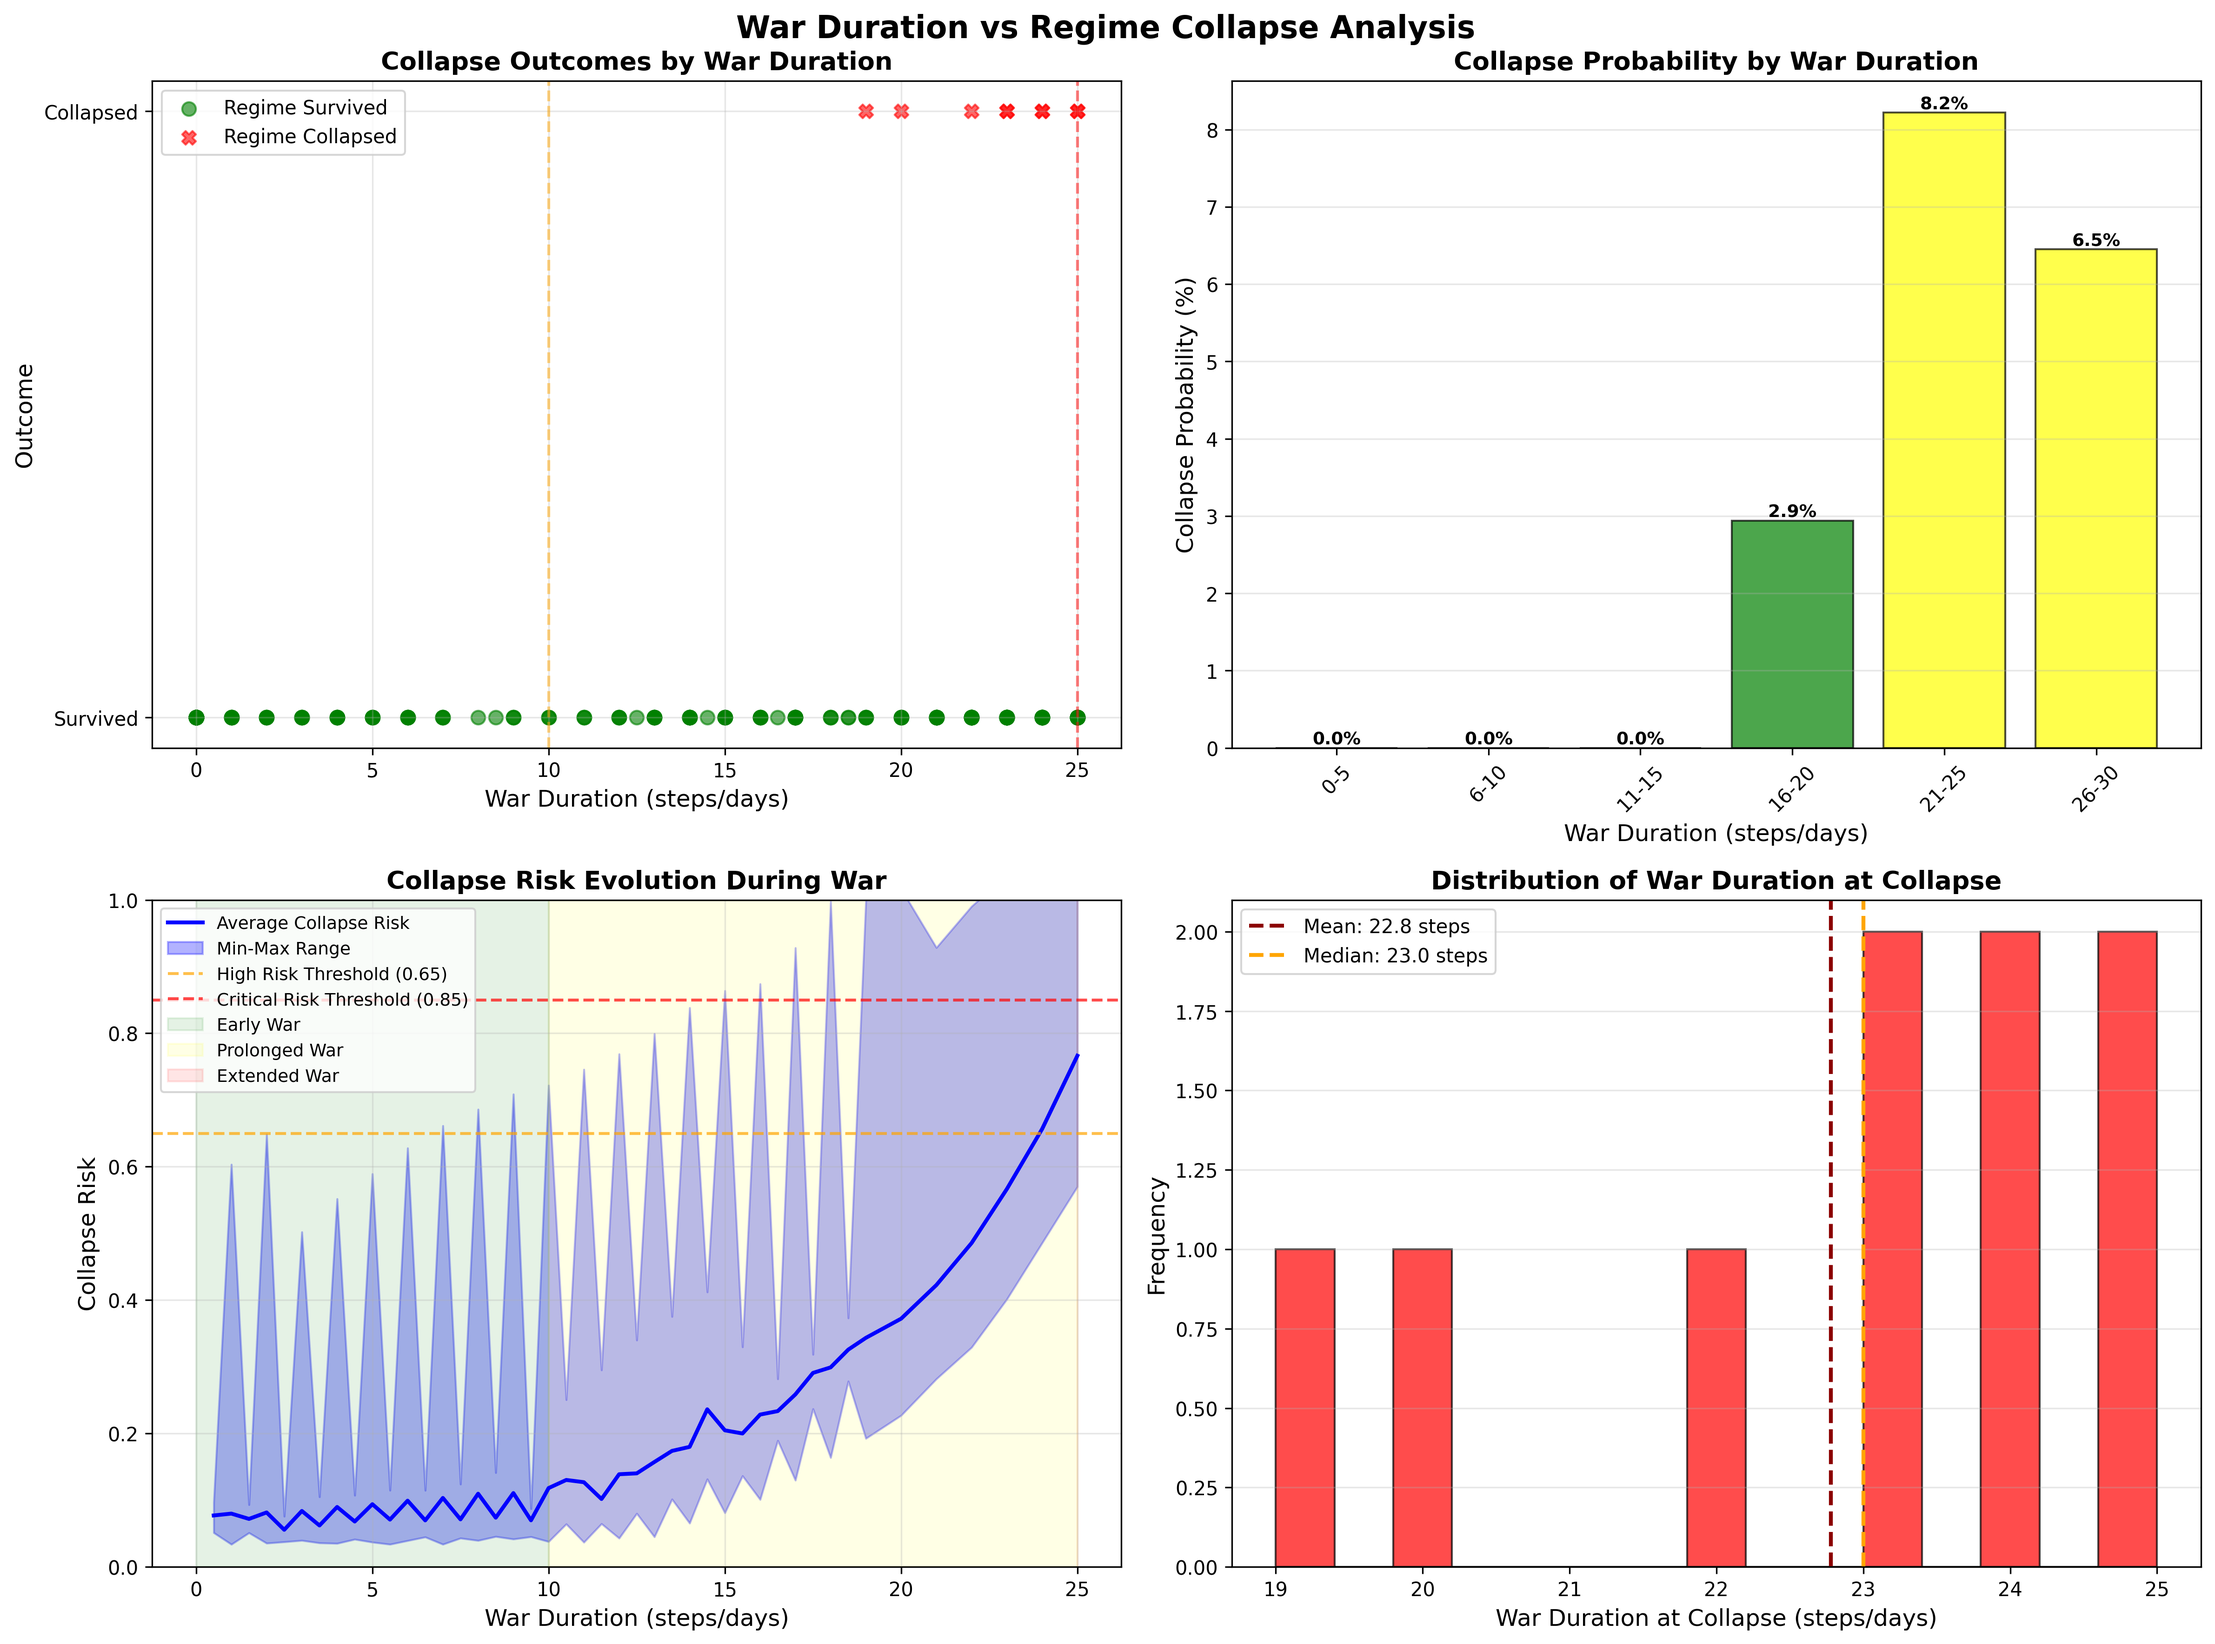
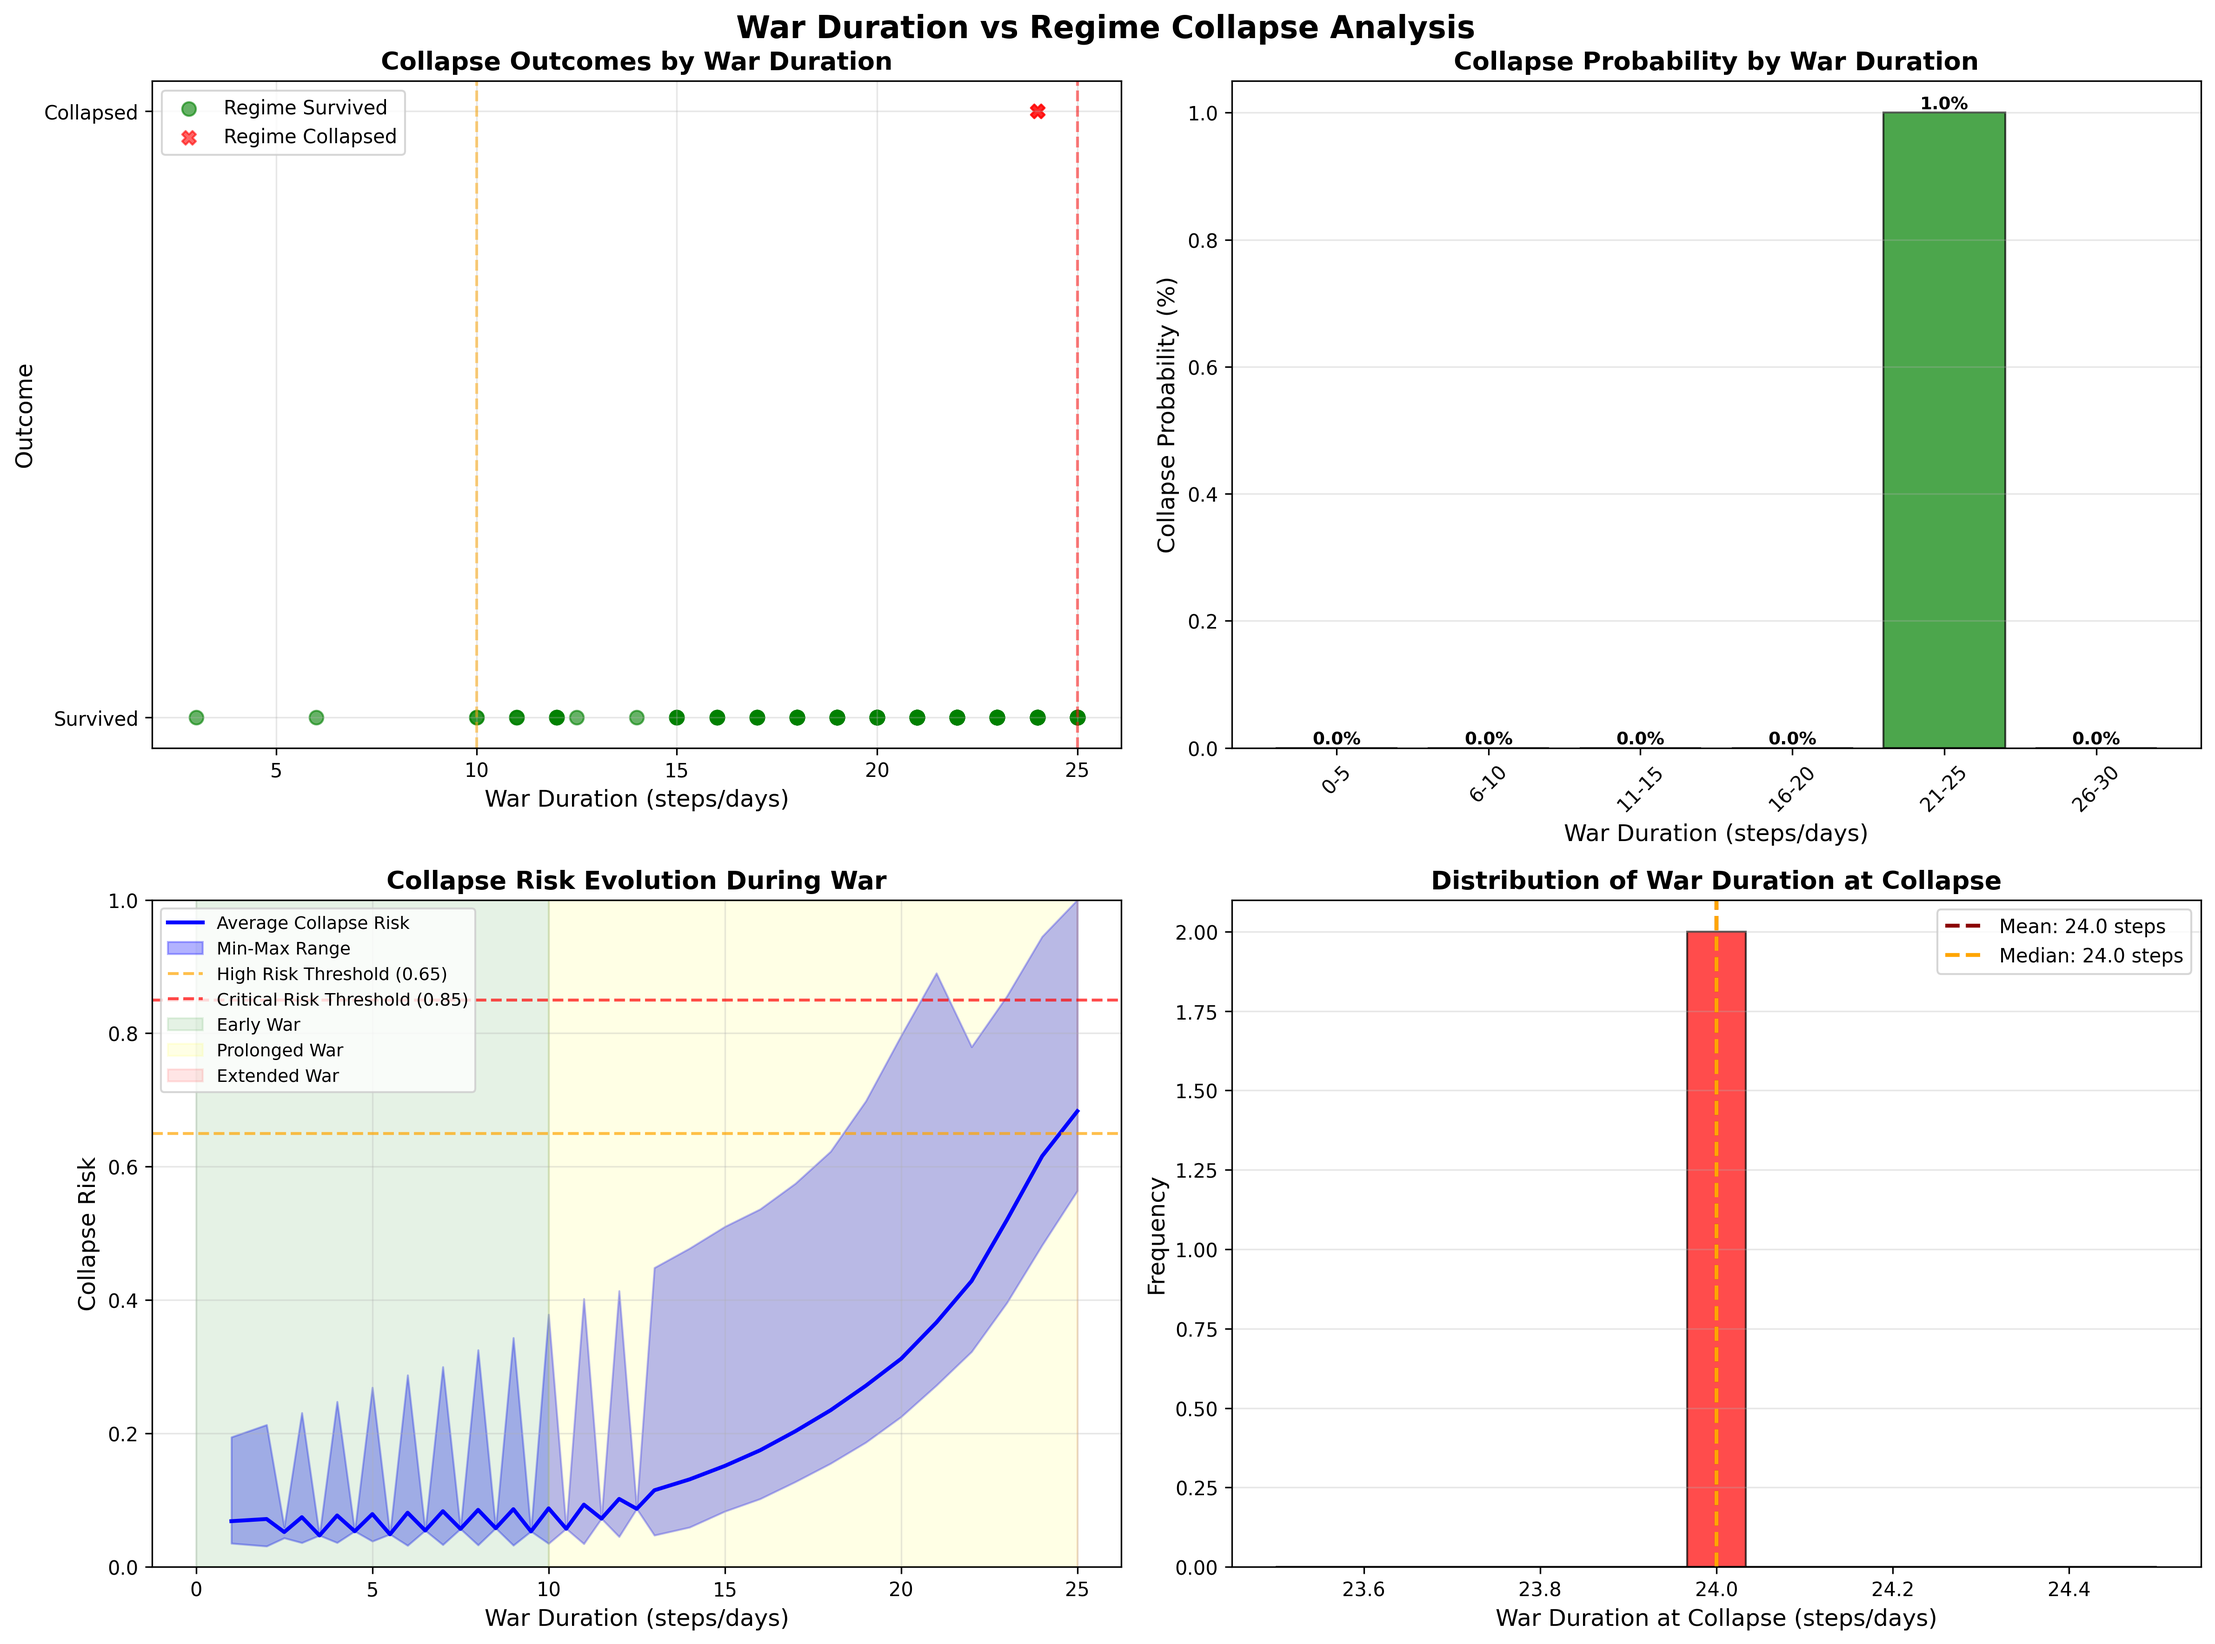
add ceasefire

diff --git a/conflict.py b/conflict.py
@@ -4,7 +4,7 @@ from collections import deque
 import matplotlib.pyplot as plt
 import matplotlib.patches as mpatches
 
-
+np.random.seed(42)
 # ----------------------- Environment -----------------------
 class Environment:
     def __init__(self):
@@ -23,7 +23,12 @@ class Environment:
             "security_loyalty": 0.50,
             "collapse_risk": 0.0 ,
             "post_war_collapse": 0.0 ,
-            "next_state_vec": 0.0
+            "next_state_vec": 0.0,
+            "ceasefire": False,
+            "ceasefire_duration": 0,
+            "ceasefire_fragility": 0.7,  
+            "internal_elite_conflict": 0.2,  
+            "hardliner_fragmentation": 0.1
         }
         self.hard_power = 0.62
         self.mod_power = 0.38
@@ -41,36 +46,80 @@ class Environment:
         s.pop("system_collapse", None)
         return np.array(list(s.values()), dtype=np.float32)
 
+
+    def update_ceasefire_dynamics(self):
+
+        # اگر آتشبس فعال است
+        if self.state["ceasefire"]:
+
+            self.state["ceasefire_duration"] += 1
+
+     
+            self.state["tension"] *= 0.97
+
+     
+            self.state["economy"] *= 1.01
+
+            # 🔥 
+            self.state["internal_elite_conflict"] *= 1.03
+            self.state["hardliner_fragmentation"] *= 1.04
+
+ 
+            self.state["security_loyalty"] *= 0.998
+
+
+            break_prob = (
+                self.state["ceasefire_fragility"] *
+                (0.4 + self.state["internal_elite_conflict"] +
+                0.5 * self.state["hardliner_fragmentation"])
+            )
+
+            if np.random.rand() < break_prob:
+                self.state["ceasefire"] = False
+
+       
+                self.state["tension"] *= 1.25
+                self.state["public_unrest"] *= 1.15
+
+        else:
+ 
+            if self.state["tension"] > 0.75 and self.state["economy"] < 0.4:
+                if np.random.rand() < 0.15:
+                    self.state["ceasefire"] = True
+                    self.state["ceasefire_duration"] = 0
+
+
     def update_power_balance(self):
 
         # In real Iran: The higher and longer the external threat, the stronger the hardline/security apparatus becomes — even if the state overall becomes weaker.
-            t = self.state["tension"]
-            duration = self.instability_duration
+        
+        t = self.state["tension"]
+        duration = self.instability_duration
 
 
-            if 0.55 < t < 0.75:
-                boost = 0.07 * (t - 0.5)
-                self.hard_power *= (1 + boost)
+        if 0.55 < t < 0.75:
+            boost = 0.07 * (t - 0.5)
+            self.hard_power *= (1 + boost)
 
 
-            elif t >= 0.75:
-                boost = 0.06 * (t - 0.7)
+        elif t >= 0.75:
+            boost = 0.06 * (t - 0.7)
 
-                if duration > 5:
-                    boost += 0.015 * (duration - 5)
+            if duration > 5:
+                boost += 0.015 * (duration - 5)
 
-                self.hard_power *= (1 + boost)
+            self.hard_power *= (1 + boost)
 
-                # cohesion increases under external threat
-                self.state["elite_cohesion"] *= 1.02
+            # cohesion increases under external threat
+            self.state["elite_cohesion"] *= 1.02
 
 
-            if self.state["economy"] > 0.55 and self.state["legitimacy"] > 0.55:
-                self.mod_power *= 1.02
+        if self.state["economy"] > 0.55 and self.state["legitimacy"] > 0.55:
+            self.mod_power *= 1.02
 
-            total = self.hard_power + self.mod_power
-            self.hard_power = np.clip(self.hard_power / total, 0.10, 0.92)
-            self.mod_power = 1.0 - self.hard_power
+        total = self.hard_power + self.mod_power
+        self.hard_power = np.clip(self.hard_power / total, 0.10, 0.92)
+        self.mod_power = 1.0 - self.hard_power
 
     def update_collapse_risk(self):
         # Regime behavior :
@@ -170,6 +219,21 @@ class Environment:
             (1 - self.state["elite_cohesion"]) *
             (1 - self.state["security_loyalty"])
         )
+       # 🔥 NEW: ceasefire paradox
+        if self.state["ceasefire"]:
+        
+            self.state["collapse_risk"] *= 0.98
+
+
+            internal_instability = (
+                self.state["internal_elite_conflict"] *
+                self.state["hardliner_fragmentation"]
+            )
+
+            self.state["collapse_risk"] += 0.01 * internal_instability 
+
+
+
 
         # --- 11. Shock-based collapse (realistic mechanism) ---
         collapse_risk = self.state["collapse_risk"]
@@ -403,6 +467,19 @@ def apply_action(state, actor, action , env=None):
             change_percent("tension", 0.20)
             change_percent("economy", -0.04)                   # Blocks any relief
 
+        elif action == "sabotage_ceasefire":
+            # خراب کردن آتشبس توسط تندروها
+            change_percent("tension", 0.30)
+            change_percent("internal_elite_conflict", 0.15)
+            change_percent("hardliner_fragmentation", 0.10)
+            new_state["ceasefire"] = False
+
+        elif action == "power_struggle":
+            # دعوای داخلی داخل حاکمیت
+            change_percent("elite_cohesion", -0.12)
+            change_percent("internal_elite_conflict", 0.20)
+            change_percent("public_unrest", 0.08)
+
     elif actor == "Moderate":
         if action == "negotiate":
             # Realistic: Limited effect because hardliners dominate
@@ -419,6 +496,10 @@ def apply_action(state, actor, action , env=None):
             change_percent("public_unrest", -0.06)
             change_percent("military_power", -0.07)            # Big backlash from IRGC
             change_percent("elite_cohesion", -0.06)            # Strong elite resistance
+        elif action == "preserve_ceasefire":
+            change_percent("tension", -0.15)
+            change_percent("economy", 0.05)
+            change_percent("internal_elite_conflict", -0.05)
 
     elif actor == "USA":
         if action == "strike":
@@ -445,6 +526,17 @@ def apply_action(state, actor, action , env=None):
             change_percent("tension", -0.30)
             change_percent("international_support", 0.10)
             change_percent("economy", 0.06)
+        elif action == "enforce_ceasefire":
+            change_percent("tension", -0.25)
+            change_percent("international_support", 0.12)
+            env.state["ceasefire"] = True
+
+        elif action == "limited_strike":
+            change_percent("tension", 0.20)
+            change_percent("military_power", -0.04)
+
+            
+            
 
 
     # Final clipping
@@ -568,7 +660,7 @@ def step(env, agents):
         env.state["public_unrest"] > 0.75
     ):
         env.state["system_collapse"] = True
-
+    env.update_ceasefire_dynamics()
     env.update_power_balance()
     env.update_collapse_risk()
 
